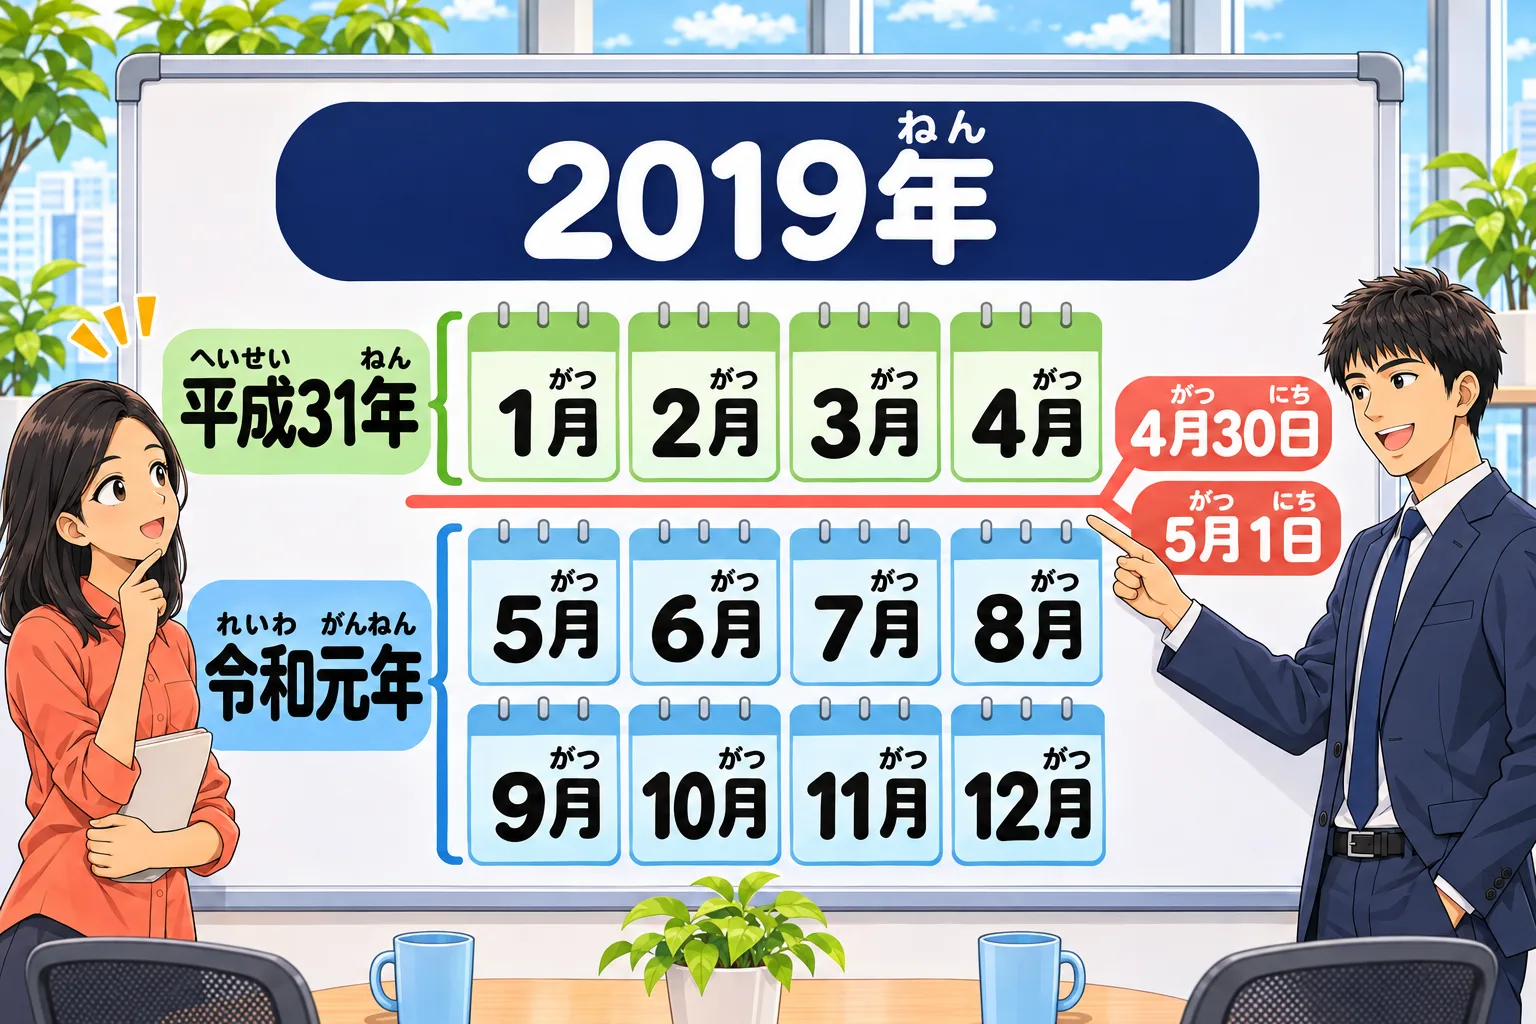
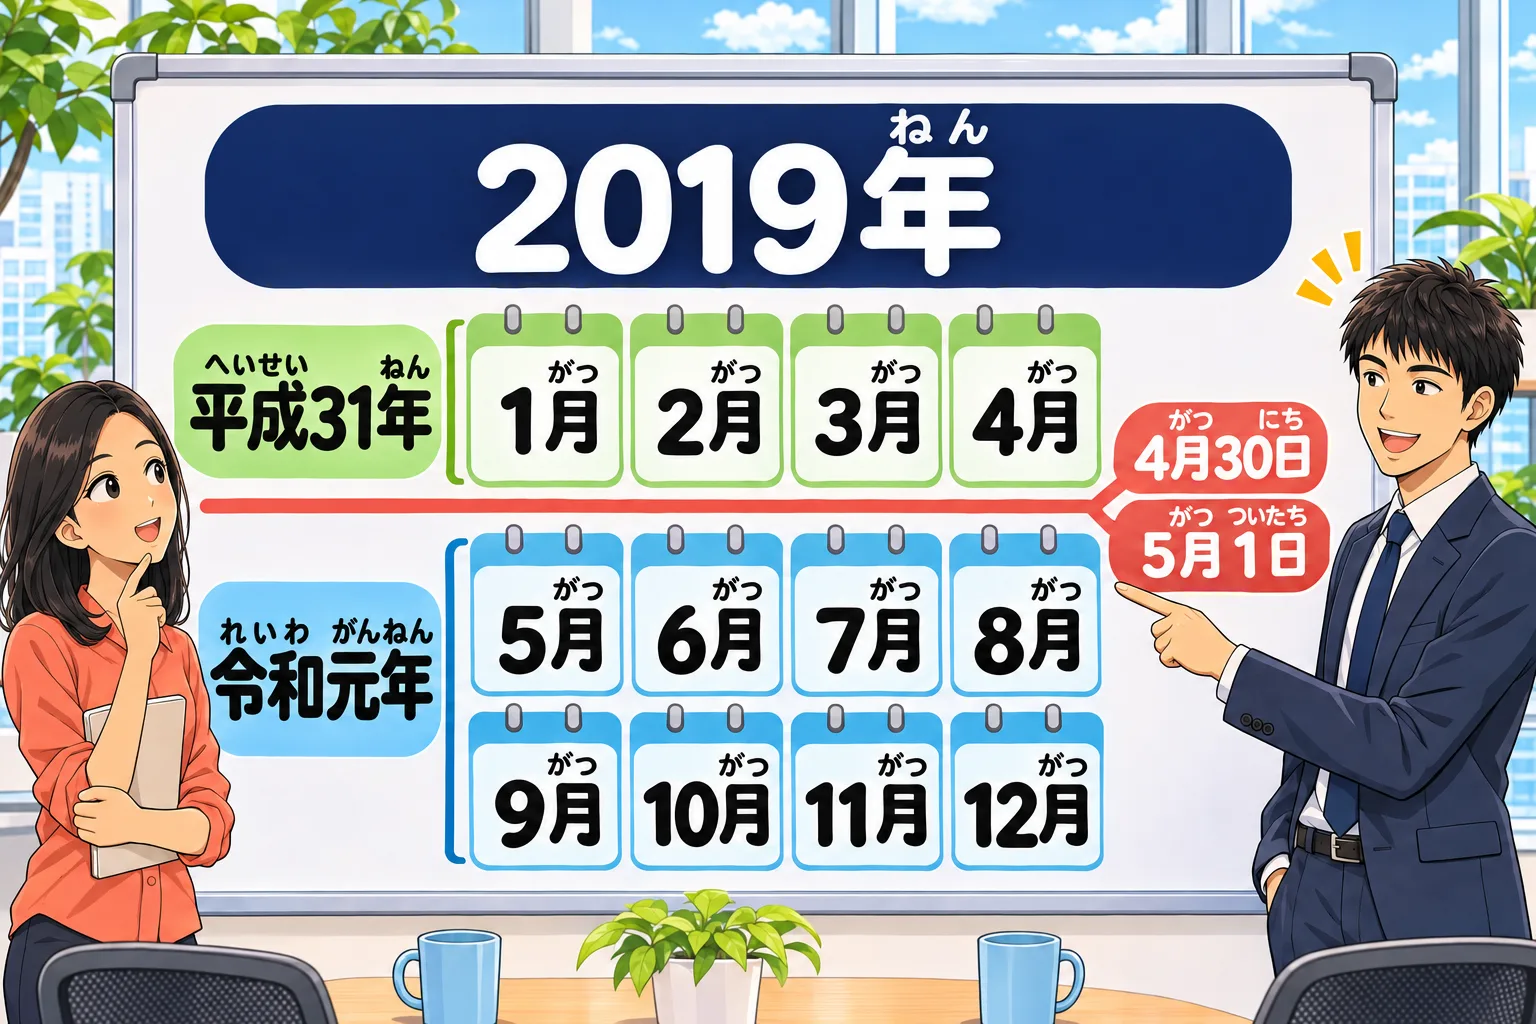
元号の 説明：日付の 読みを 直す（1日は ついたち・8日は ようか・7日は なのか）

diff --git a/public/tools/hourensou/gengou.html b/public/tools/hourensou/gengou.html
@@ -104,7 +104,7 @@
                     <span class="text-base text-slate-500">（{例|れい}：{令和|れいわ}{元年|がんねん} ＝ 2019{年|ねん}）</span>
                 </li>
                 <li class="bg-white rounded-xl border border-slate-200 px-4 py-3">
-                    {今|いま}の {元号|げんごう}は「<b>{令和|れいわ}</b>」です。2019{年|ねん}5{月|がつ}1{日|にち}に {始|はじ}まりました。
+                    {今|いま}の {元号|げんごう}は「<b>{令和|れいわ}</b>」です。2019{年|ねん}5{月|がつ}{1日|ついたち}に {始|はじ}まりました。
                 </li>
             </ul>
 
@@ -157,10 +157,10 @@
                         <span class="rounded-full border border-slate-300 px-2 text-slate-400">{昭和|しょうわ}</span>
                         <span class="rounded-full border-2 border-red-500 px-2 font-bold text-red-600">{平成|へいせい}</span>
                         <span class="rounded-full border border-slate-300 px-2 text-slate-400">{令和|れいわ}</span>
-                        <span class="font-bold">17 {年|ねん} 4 {月|がつ} 1 {日|にち}</span>
+                        <span class="font-bold">17 {年|ねん} 4 {月|がつ} {1日|ついたち}</span>
                     </div>
                 </div>
-                <p class="mt-3 text-base text-red-600 font-bold">↑ 2005{年|ねん}4{月|がつ}1{日|にち}の ことです。</p>
+                <p class="mt-3 text-base text-red-600 font-bold">↑ 2005{年|ねん}4{月|がつ}{1日|ついたち}の ことです。</p>
             </div>
 
             <div class="rounded-2xl bg-indigo-50 border border-indigo-200 p-5 space-y-3">
@@ -200,20 +200,20 @@
                     <tbody class="divide-y divide-slate-100">
                         <tr>
                             <td class="px-3 py-2"><span class="rounded-md bg-indigo-500 text-white font-bold px-2">{令和|れいわ}</span></td>
-                            <td class="px-3 py-2 whitespace-nowrap">2019{年|ねん}5{月|がつ}1{日|にち}</td>
+                            <td class="px-3 py-2 whitespace-nowrap">2019{年|ねん}5{月|がつ}{1日|ついたち}</td>
                             <td class="px-3 py-2 text-slate-500">{今|いま}も {続|つづ}いて います</td>
                             <td class="px-3 py-2 whitespace-nowrap font-bold">{西暦|せいれき} − 2018</td>
                         </tr>
                         <tr>
                             <td class="px-3 py-2"><span class="rounded-md bg-emerald-500 text-white font-bold px-2">{平成|へいせい}</span></td>
-                            <td class="px-3 py-2 whitespace-nowrap">1989{年|ねん}1{月|がつ}8{日|にち}</td>
+                            <td class="px-3 py-2 whitespace-nowrap">1989{年|ねん}1{月|がつ}{8日|ようか}</td>
                             <td class="px-3 py-2 whitespace-nowrap">2019{年|ねん}4{月|がつ}30{日|にち}</td>
                             <td class="px-3 py-2 whitespace-nowrap font-bold">{西暦|せいれき} − 1988</td>
                         </tr>
                         <tr>
                             <td class="px-3 py-2"><span class="rounded-md bg-amber-500 text-white font-bold px-2">{昭和|しょうわ}</span></td>
                             <td class="px-3 py-2 whitespace-nowrap">1926{年|ねん}12{月|がつ}25{日|にち}</td>
-                            <td class="px-3 py-2 whitespace-nowrap">1989{年|ねん}1{月|がつ}7{日|にち}</td>
+                            <td class="px-3 py-2 whitespace-nowrap">1989{年|ねん}1{月|がつ}{7日|なのか}</td>
                             <td class="px-3 py-2 whitespace-nowrap font-bold">{西暦|せいれき} − 1925</td>
                         </tr>
                     </tbody>
@@ -254,10 +254,10 @@
                     <div class="font-bold mb-1">2019{年|ねん}</div>
                     <div class="flex rounded-lg overflow-hidden text-white font-bold text-base leading-snug text-center">
                         <div class="bg-emerald-500 px-2 py-2" style="flex: 120 1 0; min-width: 8rem">
-                            {平成|へいせい}31{年|ねん}<div class="text-xs font-semibold">1{月|がつ}1{日|にち}〜4{月|がつ}30{日|にち}</div>
+                            {平成|へいせい}31{年|ねん}<div class="text-xs font-semibold">1{月|がつ}{1日|ついたち}〜4{月|がつ}30{日|にち}</div>
                         </div>
                         <div class="bg-indigo-500 px-2 py-2" style="flex: 245 1 0; min-width: 8rem">
-                            {令和|れいわ}{元年|がんねん}<div class="text-xs font-semibold">5{月|がつ}1{日|にち}〜12{月|がつ}31{日|にち}</div>
+                            {令和|れいわ}{元年|がんねん}<div class="text-xs font-semibold">5{月|がつ}{1日|ついたち}〜12{月|がつ}31{日|にち}</div>
                         </div>
                     </div>
                 </div>
@@ -265,10 +265,10 @@
                     <div class="font-bold mb-1">1989{年|ねん}</div>
                     <div class="flex rounded-lg overflow-hidden text-white font-bold text-base leading-snug text-center">
                         <div class="bg-amber-500 px-2 py-2" style="flex: 7 1 0; min-width: 8rem">
-                            {昭和|しょうわ}64{年|ねん}<div class="text-xs font-semibold">1{月|がつ}1{日|にち}〜1{月|がつ}7{日|にち}</div>
+                            {昭和|しょうわ}64{年|ねん}<div class="text-xs font-semibold">1{月|がつ}{1日|ついたち}〜1{月|がつ}{7日|なのか}</div>
                         </div>
                         <div class="bg-emerald-500 px-2 py-2" style="flex: 358 1 0; min-width: 8rem">
-                            {平成|へいせい}{元年|がんねん}<div class="text-xs font-semibold">1{月|がつ}8{日|にち}〜12{月|がつ}31{日|にち}</div>
+                            {平成|へいせい}{元年|がんねん}<div class="text-xs font-semibold">1{月|がつ}{8日|ようか}〜12{月|がつ}31{日|にち}</div>
                         </div>
                     </div>
                 </div>
@@ -286,7 +286,7 @@
                 <li class="bg-white rounded-xl border border-slate-200 p-4">
                     <div class="font-bold">① {年|ねん}・{月|がつ}・{日|にち}を 1つの {数|かず}に する</div>
                     <div class="mt-2 rounded-lg bg-slate-100 px-3 py-2 font-mono text-base">
-                        2019{年|ねん}5{月|がつ}1{日|にち} → 2019 × 10000 ＋ 5 × 100 ＋ 1 → <b class="text-indigo-600">20190501</b>
+                        2019{年|ねん}5{月|がつ}{1日|ついたち} → 2019 × 10000 ＋ 5 × 100 ＋ 1 → <b class="text-indigo-600">20190501</b>
                     </div>
                 </li>
                 <li class="bg-white rounded-xl border border-slate-200 p-4">
@@ -389,8 +389,15 @@ console.log(toWareki(1989, 1, 7));  // 昭和64年1月7日</code></pre>
 
         /** toWareki の 答えに ふりがなを 付ける（答えの 漢字は この 7つだけ）。 */
         const READINGS = { "令和": "れいわ", "平成": "へいせい", "昭和": "しょうわ", "元年": "がんねん", "年": "ねん", "月": "がつ", "日": "にち" };
+        /** 「にち」と 読まない 日。1日は ついたち、8日は ようか（2026-11-06。読みの 検査で 見つかった）。 */
+        const DAY_READINGS = { 1: "ついたち", 2: "ふつか", 3: "みっか", 4: "よっか", 5: "いつか", 6: "むいか", 7: "なのか", 8: "ようか", 9: "ここのか", 10: "とおか", 14: "じゅうよっか", 20: "はつか", 24: "にじゅうよっか" };
         function withRuby(text) {
-            return text.replace(/令和|平成|昭和|元年|年|月|日/g, (word) => `<ruby>${word}<rt>${READINGS[word]}</rt></ruby>`);
+            return text.replace(/(\d+)日|令和|平成|昭和|元年|年|月/g, (word, day) => {
+                if (day === undefined) return `<ruby>${word}<rt>${READINGS[word]}</rt></ruby>`;
+                return DAY_READINGS[day]
+                    ? `<ruby>${word}<rt>${DAY_READINGS[day]}</rt></ruby>`
+                    : `${day}<ruby>日<rt>${READINGS["日"]}</rt></ruby>`;
+            });
         }
 
         // ① の 図は 今日の 年で 出す

diff --git a/tests/gengou_page.test.ts b/tests/gengou_page.test.ts
@@ -89,6 +89,16 @@ describe("元号の 説明ページ", () => {
     expect([...rest].filter((char) => KANJI.test(char))).toEqual([]);
   });
 
+  it("1日〜10日・14日・20日・24日を「にち」と 読ませない", () => {
+    const wrong = [...visibleText().matchAll(/(?<!\d)(\d{1,2}) ?\{日\|にち\}/g)]
+      .map((hit) => Number(hit[1]))
+      .filter((day) => day <= 10 || day === 14 || day === 20 || day === 24);
+    expect(wrong).toEqual([]);
+    for (const reading of ['1: "ついたち"', '8: "ようか"', '20: "はつか"']) {
+      expect(HTML).toContain(reading);
+    }
+  });
+
   it("絵は ぜんぶ あって、字の 読めない 人にも 同じ ことを 伝える 文（alt）が ある", () => {
     const pictures = [...HTML.matchAll(/<img class="picture"[^>]*>/g)].map((hit) => hit[0]);
     expect(pictures).toHaveLength(6);

diff --git a/src/content/asset-versions.generated.ts b/src/content/asset-versions.generated.ts
@@ -888,7 +888,7 @@ export const ASSET_VERSIONS: Readonly<Record<string, string>> = {
   "/img/emblems/ISFP.webp": "840b829e",
   "/img/emblems/ISTJ.webp": "c067680d",
   "/img/emblems/ISTP.webp": "77dd8aaf",
-  "/img/hourensou/gengou/calendar.webp": "3782791a",
+  "/img/hourensou/gengou/calendar.webp": "c4d23eab",
   "/img/hourensou/gengou/gannen.webp": "93155baf",
   "/img/hourensou/gengou/places.webp": "c5d1be26",
   "/img/hourensou/gengou/stairs.webp": "cb9923e3",
